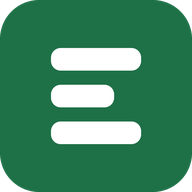
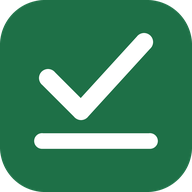
A mark of its own, and the usual-wait box
The first favicon was three bars standing in for an E. It shipped and was
served correctly - the reason it did not appear is that Safari caches a
favicon far harder than the page that asks for one, and keeps the
generated letter it drew before the file existed. The links carry a
version now, which is what makes them a different URL.

The mark is a bill checked and ruled off: a bold tick with a rule
beneath. Same grammar as the ReconFlow icon - solid rounded tile, white
round-capped strokes, one idea - so the two read as a family without
being mistaken for each other at tab size. Green for the console and the
site, near-black for the BMS.

Four candidates were drawn and rendered at 16, 32 and 64 before choosing.
The receipt outline and the bill's-lines version both turned to mush at
16px; a bare tick was legible and generic; two streams converging on a
point was legible and was ReconFlow's.

And a third box beside the WhatsApp and email ones: how long this
organisation usually takes to reimburse somebody. It answers the question
those two raise, and the product was answering "where do I send this"
twice and "when do I get my money" nowhere.

My expenses shows both currencies in Claimed, as the review queue does. A
dollar invoice put $100.00 in one column and the rupee payment in the
next with nothing on the row to say they were the same money.

diff --git a/app.html b/app.html
@@ -10,9 +10,9 @@
      the site and the BMS were three identical pale tabs in a row of twenty.
      A solid field of colour is what the eye picks out at that size; the mark
      only says which of ours it is. -->
-<link rel="icon" href="/favicon.svg" type="image/svg+xml">
-<link rel="icon" href="/favicon.ico" sizes="any">
-<link rel="apple-touch-icon" href="/apple-touch-icon.png">
+<link rel="icon" href="/favicon.svg?v=2" type="image/svg+xml">
+<link rel="icon" href="/favicon.ico?v=2" sizes="any">
+<link rel="apple-touch-icon" href="/apple-touch-icon.png?v=2">
 <meta name="theme-color" content="#1E7047">
 <link rel="preconnect" href="https://fonts.googleapis.com">
 <link rel="preconnect" href="https://fonts.gstatic.com" crossorigin>
@@ -622,9 +622,9 @@ tr.listtotal td:first-child { font-family:"IBM Plex Mono",monospace;
 /* What the bill says, over what it comes to here. The converted line is the
    one the total adds up, so it is the one set in the reader's own currency
    and the billed figure above it is the quieter of the two. */
-td.amt .billed, td.out .billed { display:block; }
-td.amt .inhome { display:block; font-size:.72rem; color:var(--muted); }
-td.amt .inhome.norate { color:var(--warn); }
+td.amt .billed, td.out .billed, td.n .billed { display:block; }
+td.amt .inhome, td.n .inhome { display:block; font-size:.72rem; color:var(--muted); }
+td.amt .inhome.norate, td.n .inhome.norate { color:var(--warn); }
 td.out .billed.as { display:block; font-size:.72rem; color:var(--muted);
   font-weight:400; }
 
@@ -3044,6 +3044,10 @@ async function loadRecords() {
 
   if (subs.ok && Array.isArray(subs.data.submissions)) {
     SUBMISSIONS = subs.data.submissions.map(toClaim).filter(Boolean);
+    // Computed over the organisation rather than over the rows below it: a
+    // submitter sees only their own claims, and the median of the two they
+    // happen to have had settled is not an answer to "how long will I wait".
+    TURNAROUND = subs.data.turnaround || null;
     // The reviewer's decision comes back from the server, not from whatever
     // this browser happens to remember. It used to live only in `decisions`,
     // so an approval survived until the next reload and no further - the claim
@@ -3745,6 +3749,9 @@ const channelTag = (ch) => {
    a console showing invented receipts beside real ones is worse than one
    showing none, because there is no way to tell which is which. */
 let SUBMISSIONS = [];
+// How long this organisation takes to reimburse somebody, from the server.
+// See `_turnaround` in auth.py and `turnaroundBox` below.
+let TURNAROUND = null;
 
 /* ---------- state ---------- */
 
@@ -10341,7 +10348,12 @@ function renderMine() {
       (sub.reference ? `<span class="refno">${esc(sub.reference)}</span>` : "") +
       `</td><td class="ident">${whenLabel(sub)}</td>` +
       `<td>${channelTag(sub.ch)}</td>` +
-      `<td class="n">${fmt(res.receiptTotal,res.currency)}</td>` +
+      // Both currencies where they differ, the same as the review queue.
+      // Claimed was printed in the currency of the receipt and Settled in the
+      // organisation's, so a dollar invoice put $100.00 in one column and
+      // ₹8,819.23 in the next with nothing on the row to say they were the
+      // same money. See `claimedCell`.
+      `<td class="n">${claimedCell(sub, res)}</td>` +
       // Blank, not 0.00, where nothing has been paid. A zero here read as
       // "they decided you get nothing" on claims nobody had decided at all.
       // In the organisation's currency: a payment is recorded in what left the
@@ -10372,6 +10384,39 @@ $("mine").addEventListener("keydown", (e) => {
 
 // Locally mirrored so the panel reflects a verification done in this session.
 let waState = null;
+
+/* How long the money takes to come back.
+ *
+ * Beside the two boxes saying where to send a receipt, because it answers the
+ * question those two raise. Somebody photographing a bill wants to know two
+ * things - where do I send this, and when do I get my money - and the product
+ * answered the first twice and the second nowhere.
+ *
+ * Measured end to end: from the receipt arriving to the payment being
+ * recorded, which is the whole of what the person who spent it experiences.
+ * The median rather than the mean, so one claim that sat over a holiday for
+ * three weeks does not make the figure useless - see `_turnaround` in
+ * auth.py, which computes it over the organisation rather than over the
+ * reader's own handful.
+ *
+ * Silent until there are three settled claims to go on. A new account showing
+ * "typically 1 day" on the strength of one lucky Tuesday has promised
+ * something it cannot keep, and the first person to wait a fortnight will
+ * remember that it did.
+ */
+function turnaroundBox() {
+  const t = TURNAROUND || {};
+  if (!t.days) return "";
+  const day = (n) => `${n} ${n === 1 ? "day" : "days"}`;
+  const spread = t.fastest && t.slowest && t.slowest !== t.fastest
+    ? `${t.fastest} to ${day(t.slowest)} so far`
+    : `across ${t.claims} settled ${t.claims === 1 ? "claim" : "claims"}`;
+  return `<div class="sendto">
+      <span class="k">Usually reimbursed in</span>
+      <span class="addr">${esc(day(t.days))}</span>
+      <span class="from">${esc(spread)}</span>
+    </div>`;
+}
 
 function renderWhatsApp() {
   const box = $("wapanel"); if (!box) return;
@@ -10413,7 +10458,7 @@ function renderWhatsApp() {
       : "";
 
     box.innerHTML =
-      `<div class="sendgrid">${wa}${mail}</div>` +
+      `<div class="sendgrid">${wa}${mail}${turnaroundBox()}</div>` +
       `<p class="note">Photograph the receipt and send it &mdash; nothing to install, no sign-in.
         Whichever route you use, it is read and checked against the same policy.</p>` +
       `<p class="msg" id="wa-msg" hidden></p>`;

diff --git a/index.html b/index.html
@@ -9,9 +9,9 @@
      the site and the BMS were three identical pale tabs in a row of twenty.
      A solid field of colour is what the eye picks out at that size; the mark
      only says which of ours it is. -->
-<link rel="icon" href="/favicon.svg" type="image/svg+xml">
-<link rel="icon" href="/favicon.ico" sizes="any">
-<link rel="apple-touch-icon" href="/apple-touch-icon.png">
+<link rel="icon" href="/favicon.svg?v=2" type="image/svg+xml">
+<link rel="icon" href="/favicon.ico?v=2" sizes="any">
+<link rel="apple-touch-icon" href="/apple-touch-icon.png?v=2">
 <meta name="theme-color" content="#1E7047">
 <meta name="description" content="Expenze reads every receipt, works out what kind of expense it is, and settles what your policy already allows. Finance sees only the exceptions, with the rule already cited. WhatsApp, email, portal or API. One credit per receipt, no per-seat licence.">
 <link rel="preconnect" href="https://fonts.googleapis.com">

diff --git a/login.html b/login.html
@@ -9,9 +9,9 @@
      the site and the BMS were three identical pale tabs in a row of twenty.
      A solid field of colour is what the eye picks out at that size; the mark
      only says which of ours it is. -->
-<link rel="icon" href="/favicon.svg" type="image/svg+xml">
-<link rel="icon" href="/favicon.ico" sizes="any">
-<link rel="apple-touch-icon" href="/apple-touch-icon.png">
+<link rel="icon" href="/favicon.svg?v=2" type="image/svg+xml">
+<link rel="icon" href="/favicon.ico?v=2" sizes="any">
+<link rel="apple-touch-icon" href="/apple-touch-icon.png?v=2">
 <meta name="theme-color" content="#1E7047">
 <link rel="preconnect" href="https://fonts.googleapis.com">
 <link rel="preconnect" href="https://fonts.gstatic.com" crossorigin>
